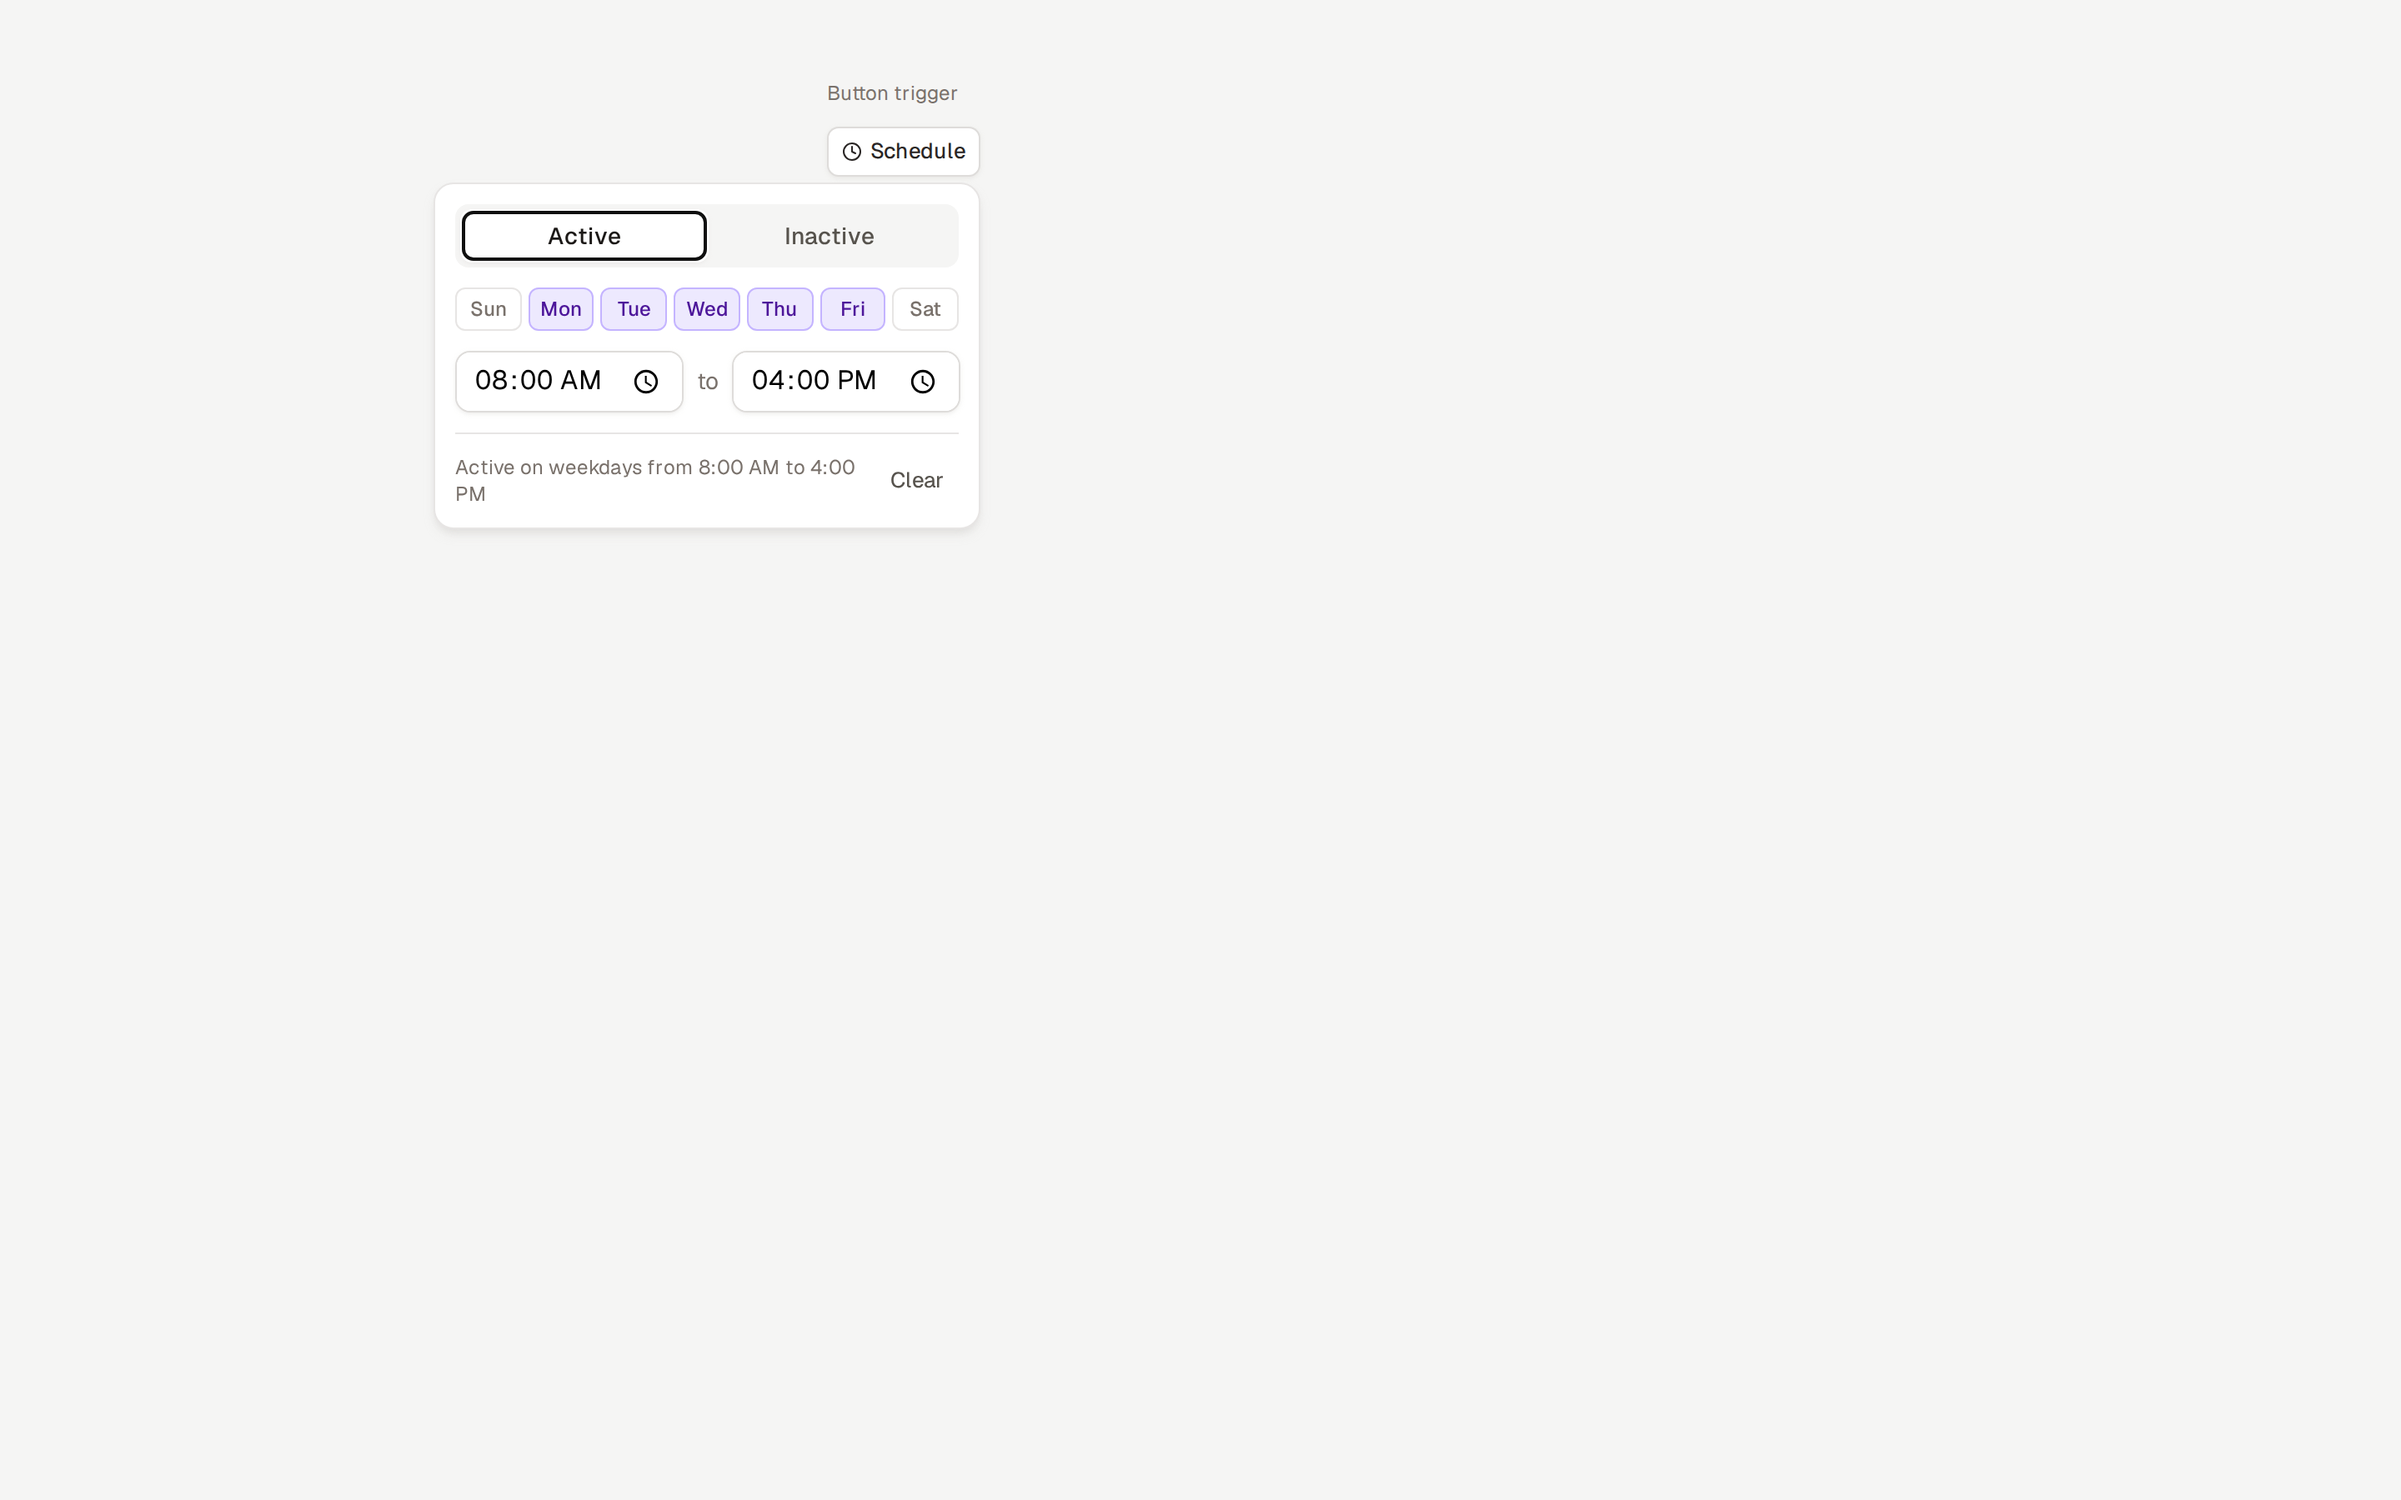
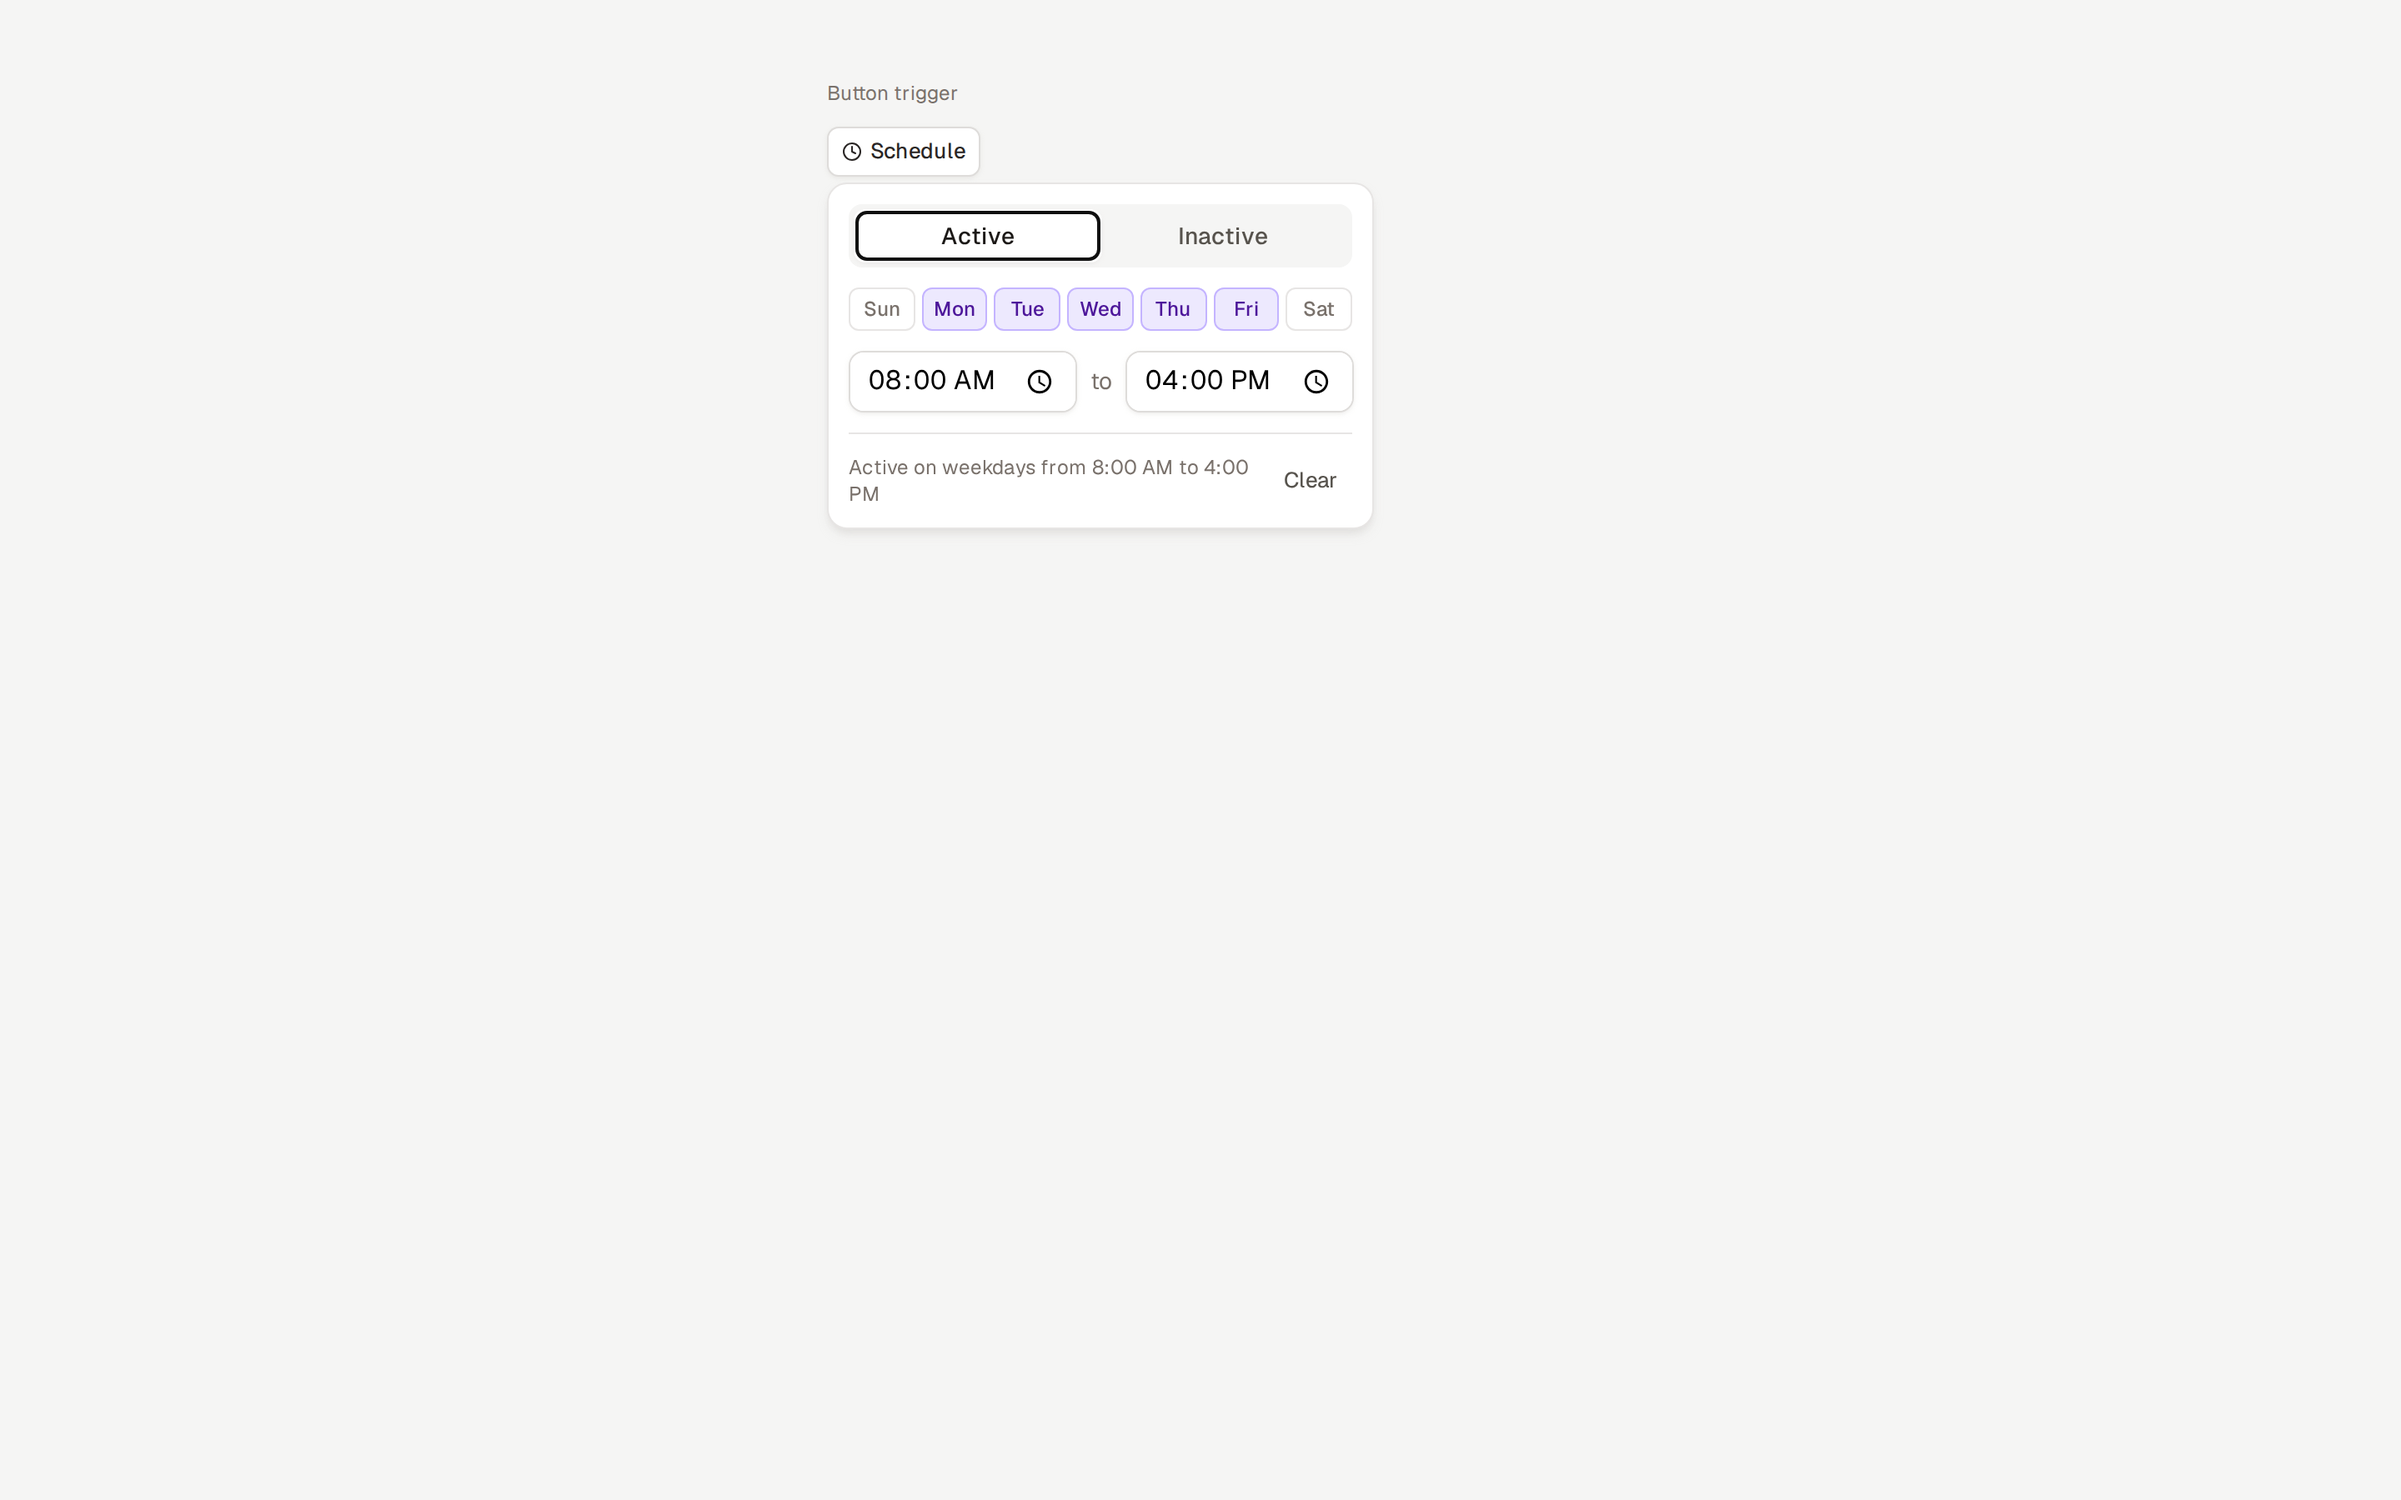
account: left-align all menus and trim story

diff --git a/web/account/src/components/pages/people/PersonBasicSettingsPage.stories.tsx b/web/account/src/components/pages/people/PersonBasicSettingsPage.stories.tsx
@@ -3,7 +3,6 @@ import React from 'react';
 import type { Device, PersonRelationship } from '#/components/types';
 import PersonBasicSettingsPage from './PersonBasicSettingsPage';
 import PersonSettingsShellPage from './PersonSettingsShellPage';
-import ConnectMacModal from '#/components/devices/ConnectMacModal';
 import { devices, macDevice } from '#/components/storybook/fixtures';
 
 const meta = {
@@ -33,7 +32,6 @@ const BasicSettingsStory: React.FC<BasicSettingsStoryProps> = ({
   const [relationshipDraft, setRelationshipDraft] = React.useState<PersonRelationship>(
     initialRelationshipDraft ?? relationship,
   );
-  const [connectMacOpen, setConnectMacOpen] = React.useState(false);
   const [connectedDevices, setConnectedDevices] = React.useState(personDevices);
 
   return (
@@ -58,9 +56,7 @@ const BasicSettingsStory: React.FC<BasicSettingsStoryProps> = ({
             setRelationship(relationshipDraft);
           }}
           onDeletePerson={() => {}}
-          onAddDevice={(app) => {
-            if (app === `mac`) setConnectMacOpen(true);
-          }}
+          onAddDevice={() => {}}
           onDisconnectMac={async (connectionId) => {
             setConnectedDevices((current) =>
               current.filter((device) => device.id !== connectionId),
@@ -69,14 +65,6 @@ const BasicSettingsStory: React.FC<BasicSettingsStoryProps> = ({
           }}
         />
       </PersonSettingsShellPage>
-      <ConnectMacModal
-        open={connectMacOpen}
-        onOpenChange={setConnectMacOpen}
-        personName={personName}
-        state={{ case: `instructions` }}
-        onRequestCode={() => {}}
-        onStartTrial={() => {}}
-      />
     </StoryScreen>
   );
 };

diff --git a/web/ui/src/components/DropdownMenu.tsx b/web/ui/src/components/DropdownMenu.tsx
@@ -9,7 +9,6 @@ interface Props {
   searchable?: boolean;
   disabled?: boolean;
   contentClassName?: string;
-  align?: `start` | `center` | `end`;
   open?: boolean;
   defaultOpen?: boolean;
   onOpenChange?: (open: boolean) => void;
@@ -50,7 +49,6 @@ const DropdownMenu: React.FC<Props> = ({
   searchable,
   disabled,
   contentClassName = `w-60`,
-  align = `start`,
   open,
   defaultOpen = false,
   onOpenChange,
@@ -168,7 +166,7 @@ const DropdownMenu: React.FC<Props> = ({
         <Menu.Trigger disabled={disabled}>{trigger}</Menu.Trigger>
       )}
       <Menu.Portal container={overlayPortalContainer ?? undefined}>
-        <Menu.Positioner sideOffset={4} align={align} className="z-[60]">
+        <Menu.Positioner sideOffset={4} align="start" className="z-[60]">
           <Menu.Popup
             className={cx(
               `z-[60] flex flex-col gap-1 rounded-xl border border-stone-200 bg-white p-1 shadow-md shadow-stone-300/50 outline-none select-none`,

diff --git a/web/account/src/components/devices/AddDeviceMenu.tsx b/web/account/src/components/devices/AddDeviceMenu.tsx
@@ -14,18 +14,11 @@ const apps: { app: SetupApp; platform: string }[] = [
 interface Props {
   onSelect: (app: SetupApp) => void;
   variant?: `primary` | `default`;
-  align?: `start` | `center` | `end`;
   disabled?: boolean;
 }
 
-const AddDeviceMenu: React.FC<Props> = ({
-  onSelect,
-  variant = `primary`,
-  align = `start`,
-  disabled,
-}) => (
+const AddDeviceMenu: React.FC<Props> = ({ onSelect, variant = `primary`, disabled }) => (
   <DropdownMenu
-    align={align}
     disabled={disabled}
     contentClassName="w-64"
     trigger={

diff --git a/web/account/src/components/pages/people/PersonBasicSettingsPage.tsx b/web/account/src/components/pages/people/PersonBasicSettingsPage.tsx
@@ -134,12 +134,7 @@ const PersonBasicSettingsPage: React.FC<Props> = ({
           }
           buttons={
             devices.length > 0 ? (
-              <AddDeviceMenu
-                variant="default"
-                align="end"
-                disabled={busy}
-                onSelect={onAddDevice}
-              />
+              <AddDeviceMenu variant="default" disabled={busy} onSelect={onAddDevice} />
             ) : undefined
           }
         >

diff --git a/web/account/src/components/person-settings/AssignedKeychainCard.tsx b/web/account/src/components/person-settings/AssignedKeychainCard.tsx
@@ -49,7 +49,6 @@ const AssignedKeychainCard: React.FC<Props> = ({
             <ScheduleButton schedule={schedule} setSchedule={setSchedule} />
           )}
           <DropdownMenu
-            align="end"
             trigger={
               <Button type="button" onClick={() => {}} size="small" icon={EllipsisIcon} />
             }

diff --git a/web/ui/src/components/Button.tsx b/web/ui/src/components/Button.tsx
@@ -353,7 +353,6 @@ const Button = React.forwardRef<HTMLElement, Props>((props, ref) => {
     <span className={cx(`inline-flex items-stretch`, props.className)}>
       {renderMainAction()}
       <DropdownMenu
-        align="end"
         disabled={isDisabled}
         searchable={props.dropdownSearchable}
         trigger={

diff --git a/web/account/src/components/keychains/KeychainAssignmentMenu.tsx b/web/account/src/components/keychains/KeychainAssignmentMenu.tsx
@@ -70,7 +70,6 @@ const KeychainAssignmentMenu: React.FC<Props> = ({
     <HStack gap={1} align="center">
       {hasAssignments && <Text variant="label">Assigned to</Text>}
       <DropdownMenu
-        align="end"
         searchable={people.length > 7}
         disabled={people.length === 0}
         contentClassName="w-64"

diff --git a/web/account/src/components/person-settings/AllowedAlbumCard.tsx b/web/account/src/components/person-settings/AllowedAlbumCard.tsx
@@ -96,7 +96,6 @@ const AllowedAlbumCard: React.FC<Props> = ({
         </VStack>
         {(onToggleAlbumArt || onRemove) && (
           <DropdownMenu
-            align="end"
             trigger={
               <Button type="button" onClick={() => {}} icon={EllipsisIcon} size="small" />
             }

diff --git a/web/ui/src/components/PageHeading.tsx b/web/ui/src/components/PageHeading.tsx
@@ -112,7 +112,6 @@ const PageHeading: React.FC<Props> = ({
               <>
                 <HStack hideAbove="@2xl/main">
                   <DropdownMenu
-                    align="end"
                     trigger={
                       <Button
                         type="button"

diff --git a/web/account/src/components/pages/requests/UnlockRequestReviewPage.tsx b/web/account/src/components/pages/requests/UnlockRequestReviewPage.tsx
@@ -158,7 +158,6 @@ const AppRequestSection: React.FC<{
 
         <div className="flex shrink-0 flex-wrap items-center gap-2 @2xl/main:justify-end">
           <DropdownMenu
-            align="end"
             contentClassName="w-72"
             trigger={
               <Button

diff --git a/web/account/src/components/person-settings/ConfiguredAppRow.tsx b/web/account/src/components/person-settings/ConfiguredAppRow.tsx
@@ -86,7 +86,6 @@ const ConfiguredAppRow: React.FC<Props> = ({
         </HStack>
         <div className="sm:hidden">
           <DropdownMenu
-            align="end"
             contentClassName="w-82"
             trigger={
               <Button

diff --git a/web/account/src/components/person-settings/ScheduleButton.tsx b/web/account/src/components/person-settings/ScheduleButton.tsx
@@ -155,7 +155,6 @@ const ScheduleButton: React.FC<ScheduleButtonProps> = ({
   defaultOpen,
 }) => (
   <DropdownMenu
-    align="end"
     contentClassName="w-82"
     defaultOpen={defaultOpen}
     trigger={
